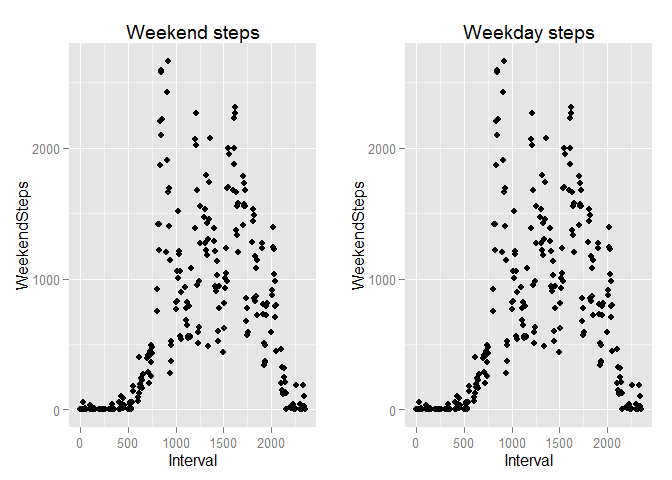
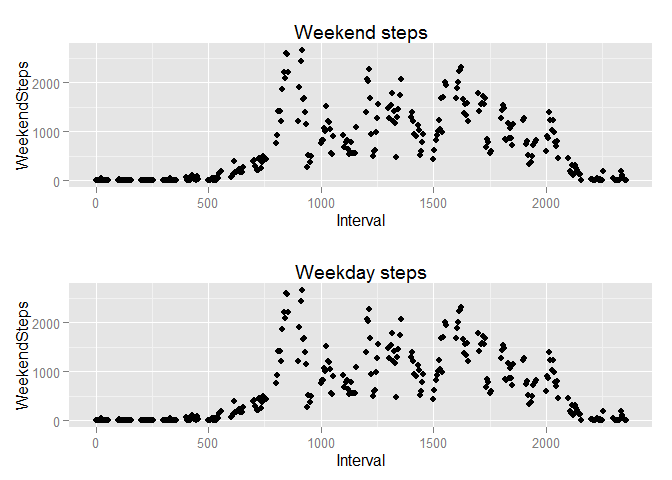
Fixed layout of weekend / weekday comparison

diff --git a/PA1_template.html b/PA1_template.html
@@ -92,7 +92,9 @@ img {
 <div id="are-there-differences-in-activity-patterns-between-weekdays-and-weekends" class="section level2">
 <h2>Are there differences in activity patterns between weekdays and weekends?</h2>
 <p>Now I add a “weekdays” factor to the imputed data, and I make two plots for steps by interval for weekends and weekdays</p>
[1 lines of base64/hex data omitted]
+<pre><code>## Warning: package 'ggplot2' was built under R version 3.1.3</code></pre>
+<pre><code>## Warning: package 'gridExtra' was built under R version 3.1.3</code></pre>
[1 lines of base64/hex data omitted]
 </div>
 
 

diff --git a/PA1_template.md b/PA1_template.md
@@ -44,5 +44,14 @@ I next create a copy of the raw data set with values imputed where the steps dat
 
 Now I add a "weekdays" factor to the imputed data, and I make two plots for steps by interval for weekends and weekdays
 
+
+```
+## Warning: package 'ggplot2' was built under R version 3.1.3
+```
+
+```
+## Warning: package 'gridExtra' was built under R version 3.1.3
+```
+
 ![](PA1_template_files/figure-html/weekendfactor-1.png) 
  
